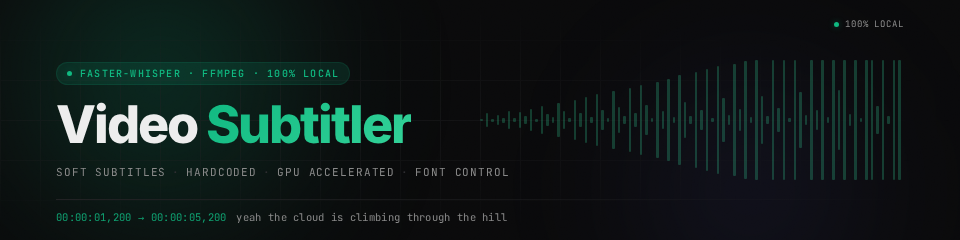
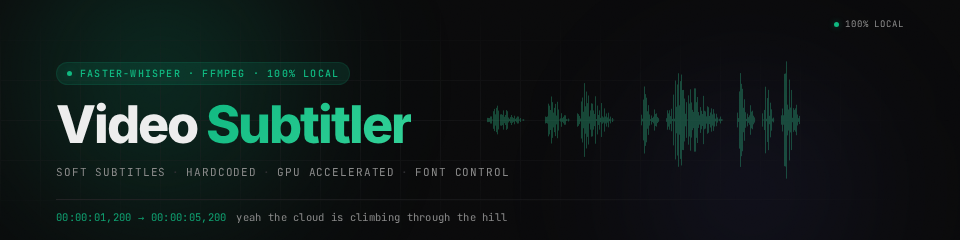
Replace bar waveform with canvas-rendered realistic speech waveform
- Syllable bursts with fast attack / slow decay envelopes
- Quiet gaps between bursts (like real speech pauses)
- Crescendo: each burst louder than the last
- Voiced harmonics + noise for realistic audio texture
- Mirrored vertically (centered midline like Audacity)

Changed region(s): [[0.5, 0.2333, 0.9375, 0.7583]]

diff --git a/docs/signboard_v5.html b/docs/signboard_v5.html
@@ -141,24 +141,16 @@
     margin: 0 6px;
   }
 
-  /* Waveform — right half, centered vertically, large amplitude */
-  .waveform {
+  /* Waveform — right half, canvas-rendered real speech shape */
+  .waveform-canvas {
     position: absolute;
     left: 480px;
     right: 56px;
     top: 50%;
     transform: translateY(-50%);
-    display: flex;
-    align-items: center;
-    gap: 3px;
-    opacity: 0.25;
+    height: 160px;
     z-index: 0;
-  }
-  .waveform span {
-    display: block;
-    width: 2.5px;
-    background: #34d399;
-    border-radius: 1px;
+    opacity: 0.3;
   }
 
   /* Thin separator */
@@ -228,12 +220,91 @@
 
     <div class="badge"><span class="badge-dot"></span>100% local</div>
 
-    <div class="waveform">
-      <span style="height:2px"></span><span style="height:14px"></span><span style="height:3px"></span><span style="height:10px"></span><span style="height:5px"></span><span style="height:18px"></span><span style="height:4px"></span><span style="height:16px"></span><span style="height:8px"></span><span style="height:22px"></span><span style="height:3px"></span><span style="height:28px"></span><span style="height:12px"></span><span style="height:6px"></span><span style="height:34px"></span><span style="height:18px"></span><span style="height:4px"></span><span style="height:40px"></span><span style="height:14px"></span><span style="height:46px"></span><span style="height:6px"></span><span style="height:52px"></span><span style="height:20px"></span><span style="height:4px"></span><span style="height:58px"></span><span style="height:26px"></span><span style="height:8px"></span><span style="height:64px"></span><span style="height:14px"></span><span style="height:70px"></span><span style="height:30px"></span><span style="height:4px"></span><span style="height:76px"></span><span style="height:18px"></span><span style="height:82px"></span><span style="height:6px"></span><span style="height:90px"></span><span style="height:36px"></span><span style="height:8px"></span><span style="height:96px"></span><span style="height:20px"></span><span style="height:102px"></span><span style="height:4px"></span><span style="height:108px"></span><span style="height:44px"></span><span style="height:10px"></span><span style="height:112px"></span><span style="height:22px"></span><span style="height:118px"></span><span style="height:6px"></span><span style="height:120px"></span><span style="height:48px"></span><span style="height:8px"></span><span style="height:120px"></span><span style="height:24px"></span><span style="height:120px"></span><span style="height:4px"></span><span style="height:120px"></span><span style="height:56px"></span><span style="height:10px"></span><span style="height:120px"></span><span style="height:20px"></span><span style="height:120px"></span><span style="height:6px"></span><span style="height:120px"></span><span style="height:60px"></span><span style="height:120px"></span><span style="height:12px"></span><span style="height:120px"></span><span style="height:4px"></span><span style="height:120px"></span><span style="height:120px"></span><span style="height:28px"></span><span style="height:120px"></span><span style="height:8px"></span><span style="height:120px"></span><span style="height:120px"></span>
-    </div>
+    <canvas class="waveform-canvas" id="waveform"></canvas>
 
     <div class="divider"></div>
     <div class="srt-preview"><span class="time">00:00:01,200 → 00:00:05,200</span>yeah the cloud is climbing through the hill</div>
   </div>
+  <script>
+    // Draw a realistic speech waveform — syllable bursts with fast attack / slow decay,
+    // separated by quiet gaps, each burst taller than the last (crescendo)
+    const canvas = document.getElementById('waveform');
+    const ctx = canvas.getContext('2d');
+
+    function draw() {
+      const dpr = window.devicePixelRatio || 1;
+      const rect = canvas.getBoundingClientRect();
+      canvas.width = rect.width * dpr;
+      canvas.height = rect.height * dpr;
+      ctx.scale(dpr, dpr);
+
+      const w = rect.width;
+      const h = rect.height;
+      const mid = h / 2;
+      const maxAmp = h / 2 - 4;
+
+      ctx.clearRect(0, 0, w, h);
+
+      // Syllable bursts: [startTime(0-1), duration(0-1), peakAmplitude(0-1)]
+      // 4 syllable groups matching "yeah / the cloud / is climbing / through the hill"
+      const syllables = [
+        // "yeah" — small quiet utterance
+        { start: 0.02, dur: 0.12, peak: 0.25 },
+        // silence
+        // "the cloud" — medium, two bursts close together
+        { start: 0.20, dur: 0.08, peak: 0.40 },
+        { start: 0.30, dur: 0.12, peak: 0.55 },
+        // silence
+        // "is climbing" — louder, two bursts
+        { start: 0.50, dur: 0.06, peak: 0.50 },
+        { start: 0.58, dur: 0.18, peak: 0.80 },
+        // silence
+        // "through the hill" — loudest, three bursts close
+        { start: 0.80, dur: 0.06, peak: 0.70 },
+        { start: 0.88, dur: 0.04, peak: 0.60 },
+        { start: 0.94, dur: 0.06, peak: 1.00 },
+      ];
+
+      // Sample at each pixel column
+      for (let x = 0; x < w; x++) {
+        const t = x / w;
+        let amp = 0;
+
+        // Sum contributions from all syllable envelopes
+        for (const syl of syllables) {
+          const localT = (t - syl.start) / syl.dur;
+          if (localT < 0 || localT > 1) continue;
+
+          // Asymmetric envelope: fast attack (0-15%), slow decay (15-100%)
+          let env;
+          if (localT < 0.15) {
+            env = localT / 0.15; // fast attack
+          } else {
+            env = 1 - ((localT - 0.15) / 0.85); // slow decay
+          }
+          env = Math.max(0, env);
+
+          // Add voiced harmonics — mix of frequencies for realistic speech look
+          const f1 = Math.sin(localT * 42) * 0.6;
+          const f2 = Math.sin(localT * 67) * 0.25;
+          const f3 = Math.sin(localT * 13) * 0.15;
+          const noise = (Math.sin(localT * 127.3) * 0.3 + Math.sin(localT * 89.7) * 0.2);
+
+          const sample = (f1 + f2 + f3 + noise) * env * syl.peak;
+          amp += Math.abs(sample);
+        }
+
+        // Clamp
+        amp = Math.min(1, amp);
+
+        // Draw the bar (mirrored vertically for full waveform look)
+        const barH = amp * maxAmp;
+        ctx.fillStyle = '#34d399';
+        ctx.fillRect(x, mid - barH, 1, barH * 2);
+      }
+    }
+
+    draw();
+  </script>
 </body>
 </html>
